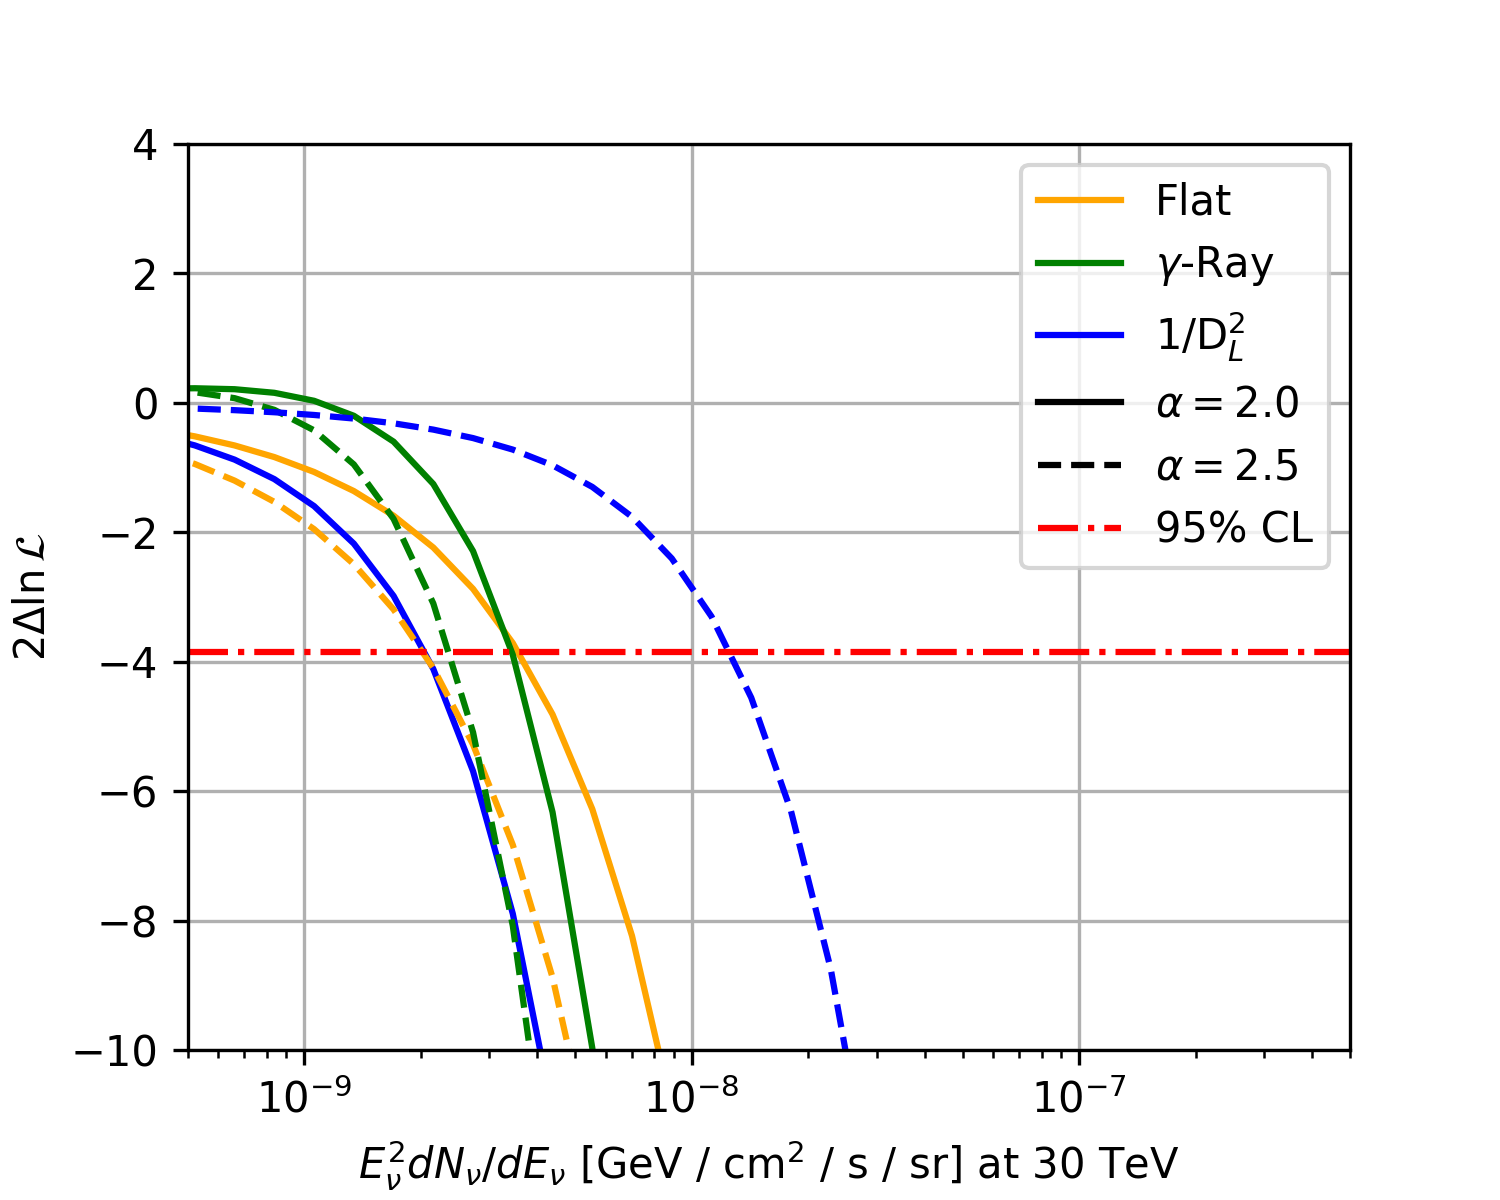
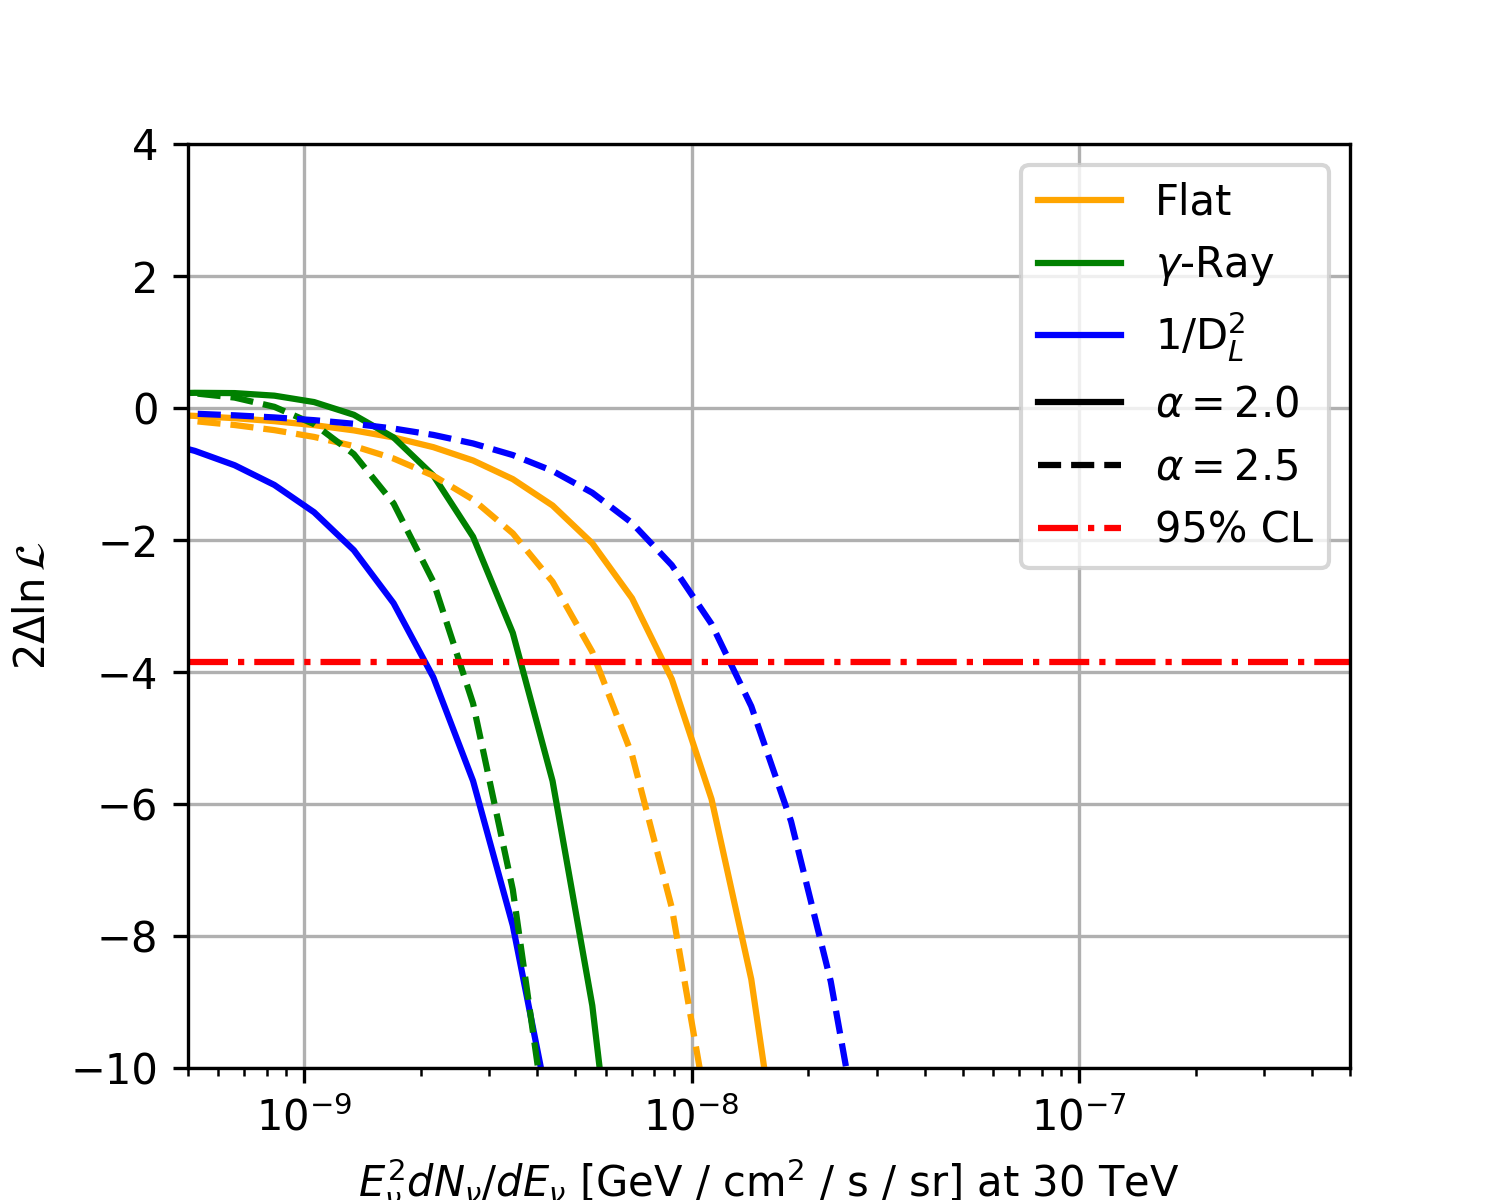
Fixing bugs having to do with 1) optimizer cutting away too many icecube events, 2) var cut not properly cutting the weights, 3) the blazar catalog names

diff --git a/IceCubeAnalysis.py b/IceCubeAnalysis.py
@@ -205,7 +205,7 @@ class SourceSearch:
                                                 bounds_error=False,
                                                 fill_value='extrapolate')
 
-    def job_submission(self, cord_s, i_source, close_point_cut=10, significance_cut=1e-10):
+    def job_submission(self, cord_s, i_source, close_point_cut=None, significance_cut=1e-10):
         """
         Function that handles the parallelization of the all-sky map.
         Computes the max-likelihood number of neutrinos from the source.
@@ -390,6 +390,34 @@ class SourceClassSearch:
         cat_z = catelog_data["cat_z"]
         cat_var_index = catelog_data["cat_var_index"]
 
+        # Modify the non-blazar AGN catalog to match the paper
+        cat_names = np.append(cat_names, ["Custom 3C 411"])
+        cat_flux1000 = np.append(cat_flux1000, [3.5e-12 / 0.011636])
+        cat_type = np.append(cat_type, ['rdg'])
+        cat_ra = np.append(cat_ra, [305.5333])
+        cat_dec = np.append(cat_dec, [10.0197])
+        cat_var_index = np.append(cat_var_index, [0.0])
+        cat_z = np.append(cat_z, [0.457])
+
+        cat_names = np.append(cat_names, ["Custom Cen B"])
+        cat_flux1000 = np.append(cat_flux1000, [2.5471e-09])
+        cat_type = np.append(cat_type, ['rdg'])
+        cat_ra = np.append(cat_ra, [206.59])
+        cat_dec = np.append(cat_dec, [-60.4461])
+        cat_var_index = np.append(cat_var_index, [6.528250])
+        cat_z = np.append(cat_z, [0.0129])
+
+        # Merge the two Cens
+        cat_flux1000[cat_names=="4FGL J1325.5-4300 "] += cat_flux1000[cat_names=="4FGL J1324.0-4330e"]
+
+        cat_flux1000 = np.delete(cat_flux1000, np.where(cat_names=="4FGL J1324.0-4330e"))
+        cat_type = np.delete(cat_type, np.where(cat_names=="4FGL J1324.0-4330e"))
+        cat_ra = np.delete(cat_ra, np.where(cat_names=="4FGL J1324.0-4330e"))
+        cat_dec = np.delete(cat_dec, np.where(cat_names=="4FGL J1324.0-4330e"))
+        cat_var_index = np.delete(cat_var_index, np.where(cat_names=="4FGL J1324.0-4330e"))
+        cat_z = np.delete(cat_z, np.where(cat_names=="4FGL J1324.0-4330e"))
+        cat_names = np.delete(cat_names, np.where(cat_names=="4FGL J1324.0-4330e"))
+        
         allowed_names_mask = np.zeros(len(cat_dec))
         for i in range(len(source_class_names)):
             allowed_names_mask[cat_type == source_class_names[i]] = 1
@@ -434,6 +462,7 @@ class SourceClassSearch:
         self.cat_names = self.cat_names[allowed_values]
         self.cat_flux1000 = self.cat_flux1000[allowed_values]
         self.cat_z = self.cat_z[allowed_values]
+        self.cat_flux_weights = self.cat_flux_weights[allowed_values]
         self.N = len(self.cat_ra)
 
     def luminosity_distance_from_redshift(self, z):
@@ -513,7 +542,7 @@ class SourceClassSearch:
         para_span = np.power(10.0, np.linspace(np.log10(para_min), np.log10(para_max), n_entries))
         return para_span
 
-    def source_loop(self, i_source, close_point_cut=10, significance_cut=1e-10, n_entries=40):
+    def source_loop(self, i_source, close_point_cut=None, significance_cut=1e-10, n_entries=40):
         """
         Function used to compute the likelihood that a single source
         from the source class produced neutrinos, at a sweep over neutrino fluxes.

diff --git a/A05_analyze_source_classes_limits.py b/A05_analyze_source_classes_limits.py
@@ -55,7 +55,9 @@ def main(icecube_file_name, background_file_name, catalog_file_name, source_clas
 
     if(n_cpu is not None):
         use_parallel = True
-
+    else:
+        use_parallel = False
+        
     sourcesearch_ = IceCubeAnalysis.SourceSearch(icecube_file_name)
     sourcesearch_.load_background(background_file_name)
 
@@ -125,7 +127,7 @@ if(__name__ == "__main__"):
     icecube_file_name = "./processed_data/output_icecube_data.npz"
     background_file_name = "./processed_data/output_icecube_background_count.npz"
 
-    source_class_names = ['FSRQ', 'bll', 'FSRQ', 'fsrq', 'BCU', 'bcu']
+    source_class_names = ['BLL', 'bll', 'FSRQ', 'fsrq', 'BCU', 'bcu']
 
     weights_types = ['flat', 'flux', 'dist']
     colors = ['orange', 'green', 'blue']
